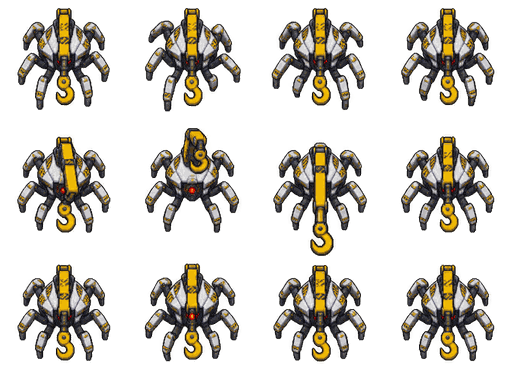
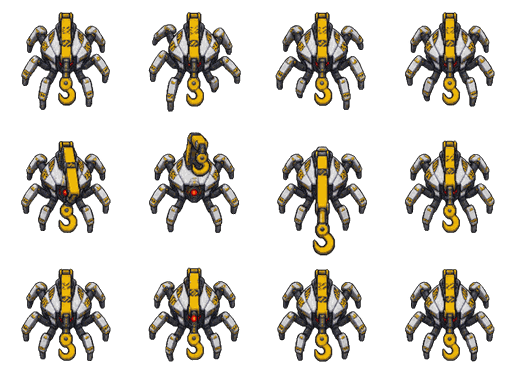
v0.17.3 기본 적 3종 상하좌우 방향 시트 연결
- [알림] 새 파일: assets/enemies/game/{hook,shield,scrap}-bot-{up,left,right}.png (assets/enemies/basic/directions 원본을 칸 128px로 줄임)
  네 방향을 같은 기준으로 잘라 크기 · 중심을 맞추면서 아래 방향 시트도 다시 만듦
- 바라보는 방향의 큰 축으로 방향 선택, 방향 시트가 있으면 회전하지 않음. 공격 준비 중에는 조준 방향 유지
- 이슈 #5 반영

Claude-Session: https://claude.ai/code/session_01UecNUM8fFRRRDxMgkVwh5h

diff --git a/js/config.js b/js/config.js
@@ -1,4 +1,4 @@
-const VERSION = "0.17.2";
+const VERSION = "0.17.3";
 
 const CONFIG = {
   width: 1280,
@@ -22,9 +22,9 @@ const CONFIG = {
   enemies: {
     drone: { name: "소형 드론", radius: 13, speed: 120, hp: 30, damage: 10, scrap: 1, color: "#e0525a", small: true },
     guard: { name: "경비 로봇", radius: 22, speed: 70, hp: 120, damage: 22, scrap: 3, color: "#b44ad8" },
-    tow: { name: "견인봇", radius: 14, speed: 110, hp: 45, damage: 10, scrap: 1, color: "#e8b931", small: true, look: true, legs: 4, sheet: "hook-bot", drawScale: 4.4 },
-    blocker: { name: "차단봇", radius: 22, speed: 60, hp: 140, damage: 18, scrap: 3, color: "#c0392b", look: true, legs: 6, sheet: "shield-bot", drawScale: 3.6 },
-    shooter: { name: "고철 투사봇", radius: 15, speed: 85, hp: 50, damage: 8, scrap: 2, color: "#9aa3ad", small: true, look: true, legs: 4, sheet: "scrap-bot", drawScale: 4.4, hitShown: true },
+    tow: { name: "견인봇", radius: 14, speed: 110, hp: 45, damage: 10, scrap: 1, color: "#e8b931", small: true, look: true, legs: 4, sheet: "hook-bot", dirs: true, drawScale: 4.4 },
+    blocker: { name: "차단봇", radius: 22, speed: 60, hp: 140, damage: 18, scrap: 3, color: "#c0392b", look: true, legs: 6, sheet: "shield-bot", dirs: true, drawScale: 3.6 },
+    shooter: { name: "고철 투사봇", radius: 15, speed: 85, hp: 50, damage: 8, scrap: 2, color: "#9aa3ad", small: true, look: true, legs: 4, sheet: "scrap-bot", dirs: true, drawScale: 4.4, hitShown: true },
     stamp: { name: "출근 도장 프레스", radius: 21, speed: 70, hp: 120, damage: 15, scrap: 3, color: "#8a5a2b", look: true, legs: 6, sheet: "stamp-bot", drawScale: 3.8 },
     ironcart: { name: "쇳덩이 운반봇", radius: 19, speed: 140, hp: 90, damage: 12, scrap: 3, color: "#ff7a1a", look: true, legs: 6, sheet: "ingot-bot", drawScale: 4.0, hitShown: true },
     rusher: { name: "급발진봇", radius: 17, speed: 95, hp: 75, damage: 12, scrap: 2, color: "#6fa8dc", look: true, legs: 4, sheet: "dash-bot", drawScale: 4.2 },

diff --git a/js/enemies.js b/js/enemies.js
@@ -700,8 +700,17 @@ function enemyFrame(e, d) {
   return 8 + (Math.floor(e.animT / a.idle) % 4);
 }
 
+function enemyDir(e) {
+  const c = Math.cos(e.angle);
+  const s = Math.sin(e.angle);
+  if (Math.abs(c) > Math.abs(s)) return c < 0 ? "-left" : "-right";
+  return s < 0 ? "-up" : "";
+}
+
 function drawSheetEnemy(e, d, img) {
   const i = enemyFrame(e, d);
+  const dirImg = d.dirs ? SPRITES["enemy-" + d.sheet + enemyDir(e)] : null;
+  if (dirImg) img = dirImg;
   const fw = img.naturalWidth / 4;
   const fh = img.naturalHeight / 3;
   const size = e.r * (d.drawScale || 4);
@@ -713,7 +722,7 @@ function drawSheetEnemy(e, d, img) {
   ctx.beginPath();
   ctx.ellipse(0, e.r * 0.6, e.r * 1.3, e.r * 0.45, 0, 0, Math.PI * 2);
   ctx.fill();
-  if (!d.upright) ctx.rotate(e.angle - Math.PI / 2);
+  if (!d.upright && !dirImg) ctx.rotate(e.angle - Math.PI / 2);
   if (e.flash > 0) ctx.filter = "brightness(2.2)";
   else if (e.windup > 0 && Math.floor(performance.now() / 90) % 2 === 0) ctx.filter = "sepia(1) saturate(5) hue-rotate(-25deg)";
   else if (e.vulnerable > 0 && Math.floor(performance.now() / 140) % 2 === 0) ctx.filter = "brightness(1.5)";

diff --git a/js/game.js b/js/game.js
@@ -1847,7 +1847,10 @@ Promise.all([
   for (const b of CONFIG.bosses) {
     for (const [key, dir] of [["move-", "move/"], ["move2-", "move2/"], ["trans-", "transition/"]]) loadSprite(key + b.sprite, "assets/bosses/game/" + dir + b.sprite + ".png").catch(() => {});
   }
-  for (const d of Object.values(CONFIG.enemies)) if (d.sheet) loadSprite("enemy-" + d.sheet, "assets/enemies/game/" + d.sheet + ".png").catch(() => {});
+  for (const d of Object.values(CONFIG.enemies)) {
+    if (!d.sheet) continue;
+    for (const dir of d.dirs ? ["", "-up", "-left", "-right"] : [""]) loadSprite("enemy-" + d.sheet + dir, "assets/enemies/game/" + d.sheet + dir + ".png").catch(() => {});
+  }
   last = performance.now();
   requestAnimationFrame(frame);
 });

diff --git a/CHANGELOG.md b/CHANGELOG.md
@@ -1,5 +1,9 @@
 # 업데이트 내역
 
+## v0.17.3
+
+- 견인봇 · 차단봇 · 고철 투사봇이 위 · 아래 · 왼쪽 · 오른쪽 방향마다 따로 그린 모습으로 움직입니다. (이전에는 아래 방향 그림을 돌려서 보여 줬습니다.)
+
 ## v0.17.2
 
 - 튜토리얼 '한 판의 흐름' 그림에서 연결선이 글자를 가리던 문제를 고쳤습니다.
